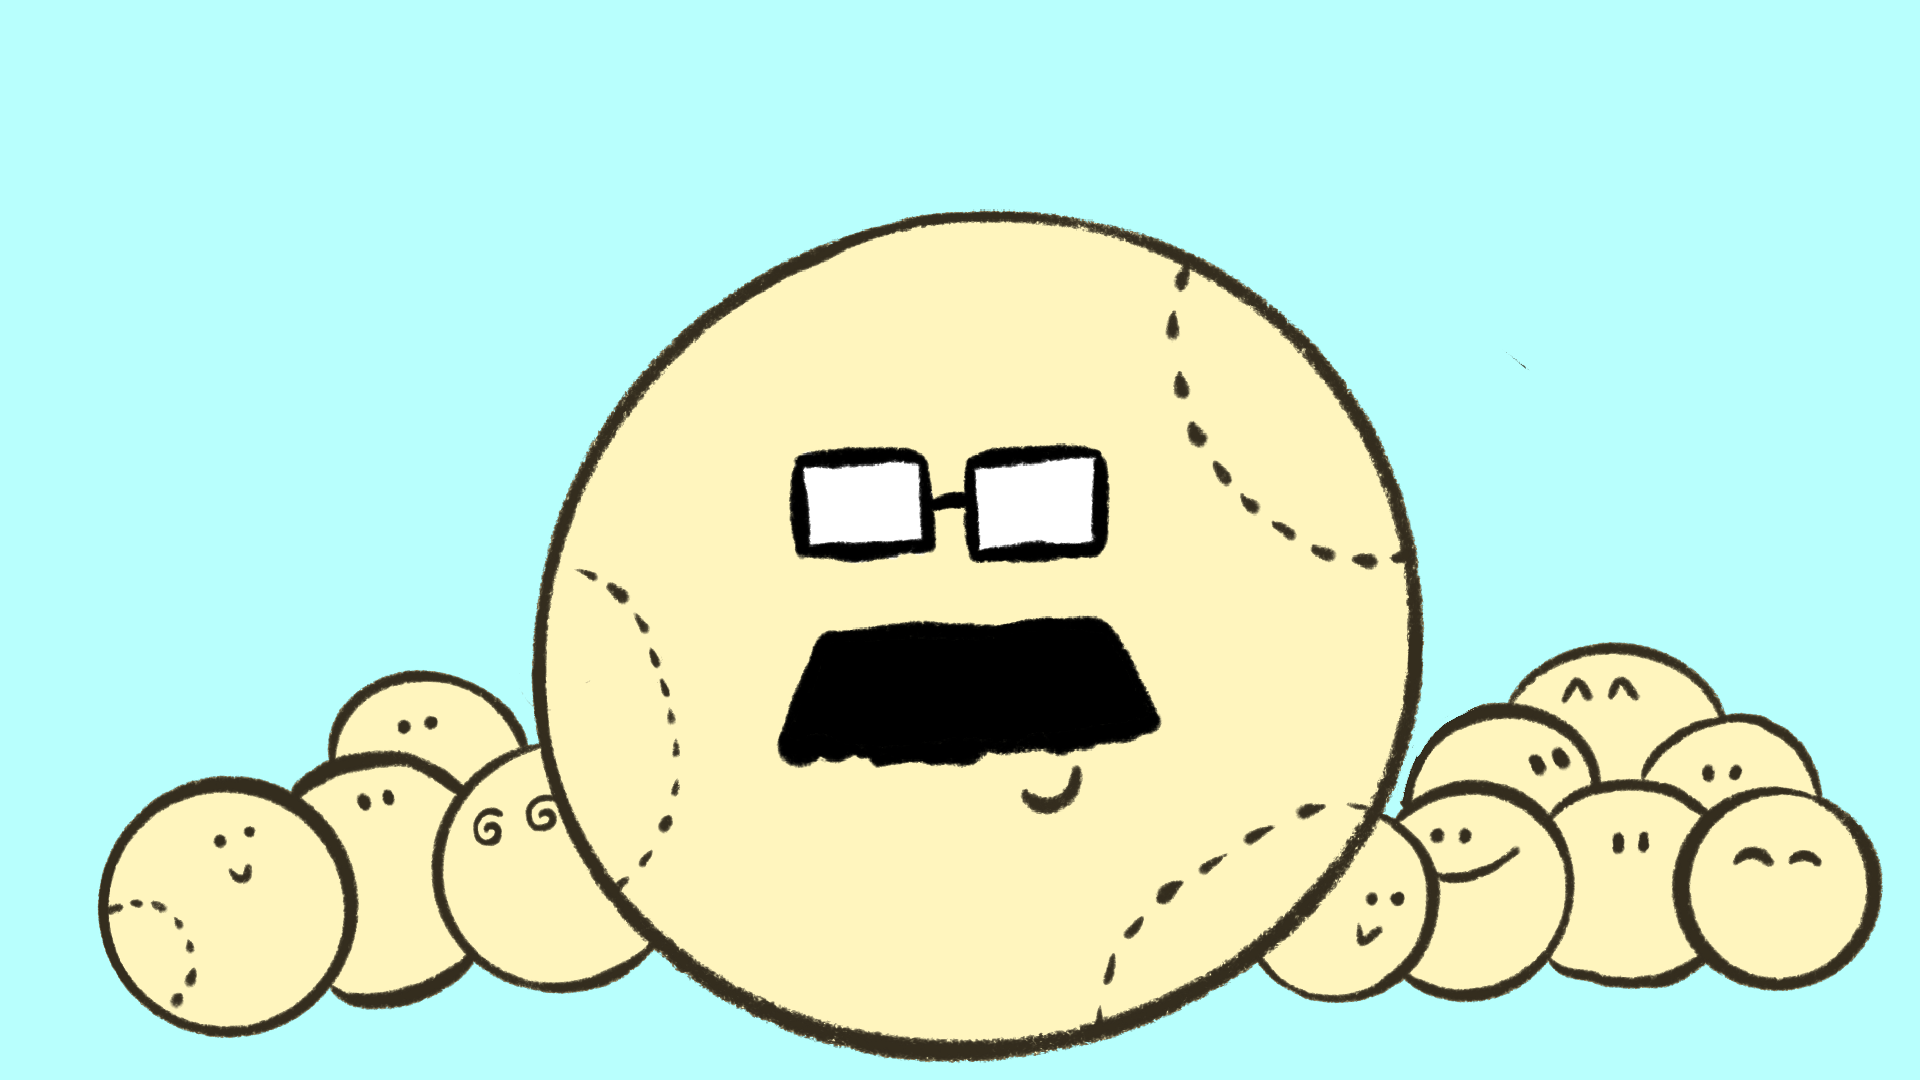
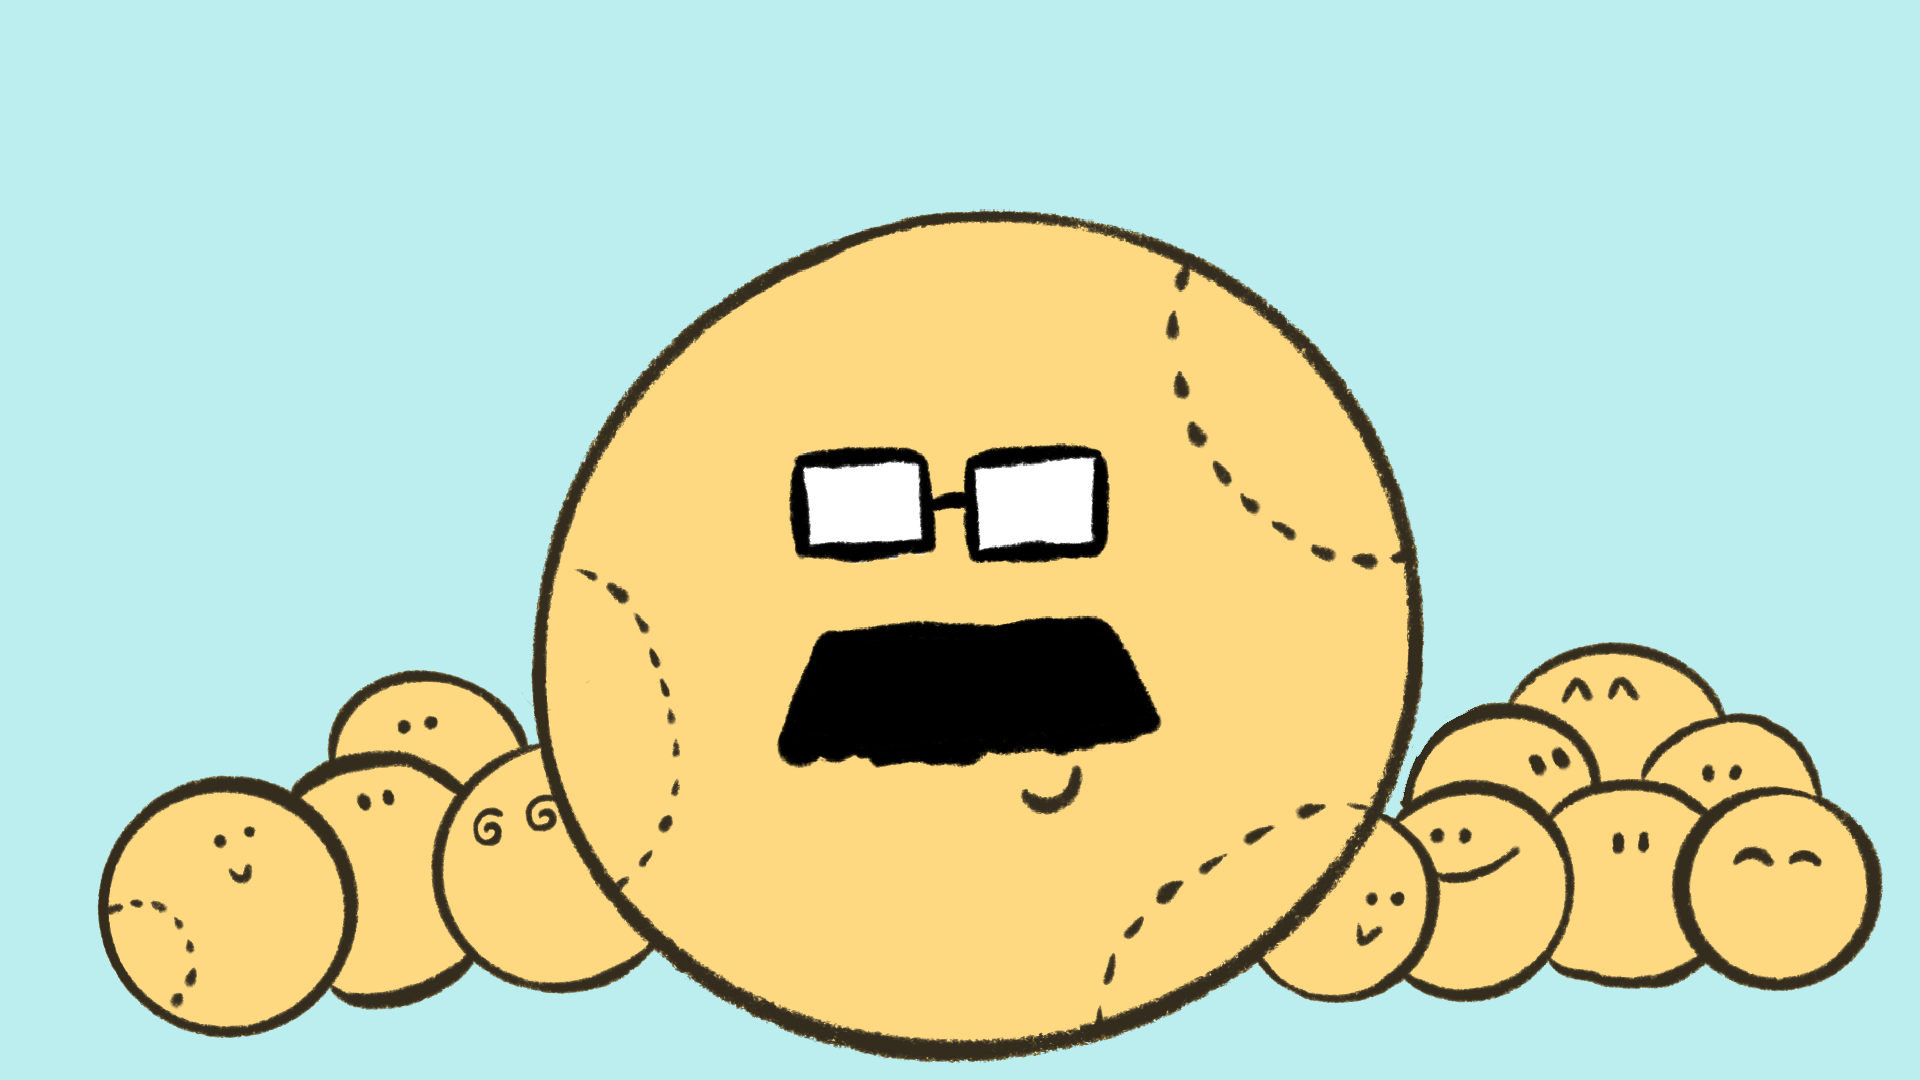
Updated buttons and intro page

diff --git a/source/main.py b/source/main.py
@@ -38,7 +38,7 @@ assets.set_globs(w=WIDTH, h=HEIGHT, m=MOD)
 GRAY = (80, 80, 80)
 RED = (255, 0, 0)
 YELLOW = (255, 255, 0)
-BACKGROUND_BLUE = (144, 226, 222)
+BACKGROUND_BLUE = (188, 238, 240)
 BLACK = (0, 0, 0)
 PHAGO_LIGHT =  (218, 200, 101)
 PHAGO_DARK = (196, 143, 85)
@@ -115,11 +115,9 @@ def intro_screen():
     # Set up intro screen background
     into_bg = pg.image.load(str(DIR_PATH / "images" / "start_screen_basic.png")).convert()
     into_bg = pg.transform.scale(into_bg, (WIDTH, HEIGHT))
-    SCREEN.blit(into_bg, (0, 0))
-
+    
     # Set up title
     title = FONT_1.render(GAMETITLE, True, BLACK)
-    SCREEN.blit(title, mod(40, 21))
 
     pg.display.update()
 
@@ -138,6 +136,9 @@ def intro_screen():
     # Intro page loop
     intro = True
     while intro:
+        SCREEN.blit(into_bg, (0, 0))
+        SCREEN.blit(title, mod(40, 21))
+
         for event in pg.event.get():
             exit_check(event)
 
@@ -184,30 +185,31 @@ def end_screen(score):
             out_file.write("[]")
         end_screen(score)
 
-    play_button = Button(mod(1300), mod(20), mod(425), mod(80), FONT_3, "Play again", callback_=intro_screen)
+    play_button = Button(mod(1300), mod(20), mod(425), mod(120), FONT_3, "Play again", callback_=intro_screen)
 
     # Show final score
     bg = pg.image.load(str(DIR_PATH / "images" / "full_background.png")).convert()
     bg = pg.transform.scale(bg, (WIDTH, HEIGHT))
 
-    SCREEN.blit(bg, (0, 0))
     final_score_text = FONT_3.render(("Final Score: " + str(score)), True, (0, 0, 0))
-    SCREEN.blit(final_score_text, mod(100, 20))
 
     # Sort high scores
     score_list = sorted(score_list, key=lambda x: int(round(float(x["score"]))), reverse=True)
 
-    # Show high scores
-    for i, line in enumerate(score_list[:10]):
-        core_text = FONT_3.render(str(line["score"]), True, (0, 0, 0))
-        diff_text = FONT_3.render(line["difficulty"], True, (0, 0, 0))
-        date_text = FONT_3.render(line["date"], True, (0, 0, 0))
-        SCREEN.blit(core_text, mod(100, 150 + (i * 80)))
-        SCREEN.blit(diff_text, mod(700, 150 + (i * 80)))
-        SCREEN.blit(date_text, mod(1300, 150 + (i * 80)))
-
     # End page loop
     while True:
+        SCREEN.blit(bg, (0, 0))
+        SCREEN.blit(final_score_text, mod(100, 20))
+        
+        # Show high scores
+        for i, line in enumerate(score_list[:10]):
+            core_text = FONT_3.render(str(line["score"]), True, (0, 0, 0))
+            diff_text = FONT_3.render(line["difficulty"], True, (0, 0, 0))
+            date_text = FONT_3.render(line["date"], True, (0, 0, 0))
+            SCREEN.blit(core_text, mod(100, 150 + (i * 80)))
+            SCREEN.blit(diff_text, mod(700, 150 + (i * 80)))
+            SCREEN.blit(date_text, mod(1300, 150 + (i * 80)))
+
         for event in pg.event.get():
             exit_check(event)
 
@@ -362,13 +364,13 @@ def game_loop():
     all_cargo, good_cargo = spawn_cargo()
 
     # Add background
-    intro_bg = pg.image.load(str(DIR_PATH / "images" / "full_background.png")).convert()
-    intro_bg = pg.transform.scale(intro_bg, (WIDTH, HEIGHT))
+    game_bg = pg.image.load(str(DIR_PATH / "images" / "full_background.png")).convert()
+    game_bg = pg.transform.scale(game_bg, (WIDTH, HEIGHT))
 
     # Main game loop
     while running:      
 
-        SCREEN.blit(intro_bg, (0, 0))
+        SCREEN.blit(game_bg, (0, 0))
 
         # Allow for closing
         for event in pg.event.get():
@@ -460,18 +462,28 @@ def game_loop():
             # Draw phagophore
             if phago_locs is not None:
                 if len(phago_locs) > 2:
+                    # Draw outer line
                     last_loc = phago_locs[0]
                     for loc in phago_locs[1:]:
                         pg.draw.circle(SCREEN, PHAGO_LIGHT, (last_loc[0]+0, last_loc[1]+0), mod(31))
-                        aaline(SCREEN, PHAGO_LIGHT, last_loc, loc, mod(60))
-                        # aaline(SCREEN, YELLOW, last_loc, loc, mod(23))                        
+                        aaline(SCREEN, PHAGO_LIGHT, last_loc, loc, mod(60))                   
                         last_loc = loc
-                    
+
+                    #Draw inner line
                     last_loc = phago_locs[0]
                     for loc in phago_locs[1:]:
-                        aaline(SCREEN, PHAGO_DARK, last_loc, loc, mod(23))     
-                        pg.draw.circle(SCREEN, PHAGO_DARK, (last_loc[0]+0, last_loc[1]+0), mod(11))                   
+                        pg.draw.circle(SCREEN, PHAGO_DARK, (last_loc[0]+0, last_loc[1]+0), mod(11))
+                        aaline(SCREEN, PHAGO_DARK, last_loc, loc, mod(23))                     
                         last_loc = loc
+
+                    # Draw Atg8
+                    # last_loc = phago_locs[0]
+                    # for loc in phago_locs[1:]:
+                    #     pg.draw.circle(SCREEN, PHAGO_DARK, (last_loc[0]+0, last_loc[1]+0), mod(11))
+                    #     dx = last_loc[1]
+                    #     dy = 
+                    #     aaline(SCREEN, PHAGO_DARK, last_loc, loc, mod(23))                     
+                    #     last_loc = loc
 
             # Draw PAS
             if start_loc is not None:

diff --git a/source/assets.py b/source/assets.py
@@ -16,6 +16,7 @@ if DIR_PATH.name == "dist":
 
 WHITE = (255, 255, 255)
 BLACK = (0, 0, 0)
+BACKGROUND_BLUE = (188, 238, 240)
 COLOR_ACTIVE = (0, 0, 0)
 COLOR_INACTIVE = (80, 80, 80)
 WIDTH = 0
@@ -301,9 +302,11 @@ class Button:
     
         # Initialize image
         base_up = pg.image.load(str(DIR_PATH / "images" / "button_up.png")).convert()
-        base_down = pg.image.load(str(DIR_PATH / "images" / "button_down.jpg")).convert()
+        base_down = pg.image.load(str(DIR_PATH / "images" / "button_down.png")).convert()
         self.image_up = pg.transform.scale(base_up, (w, h))
         self.image_down = pg.transform.scale(base_down, (w, h))
+        self.image_up.set_colorkey(BLACK)
+        self.image_down.set_colorkey(BLACK)
 
     def handle_event(self, event, glob_diff=None):
         """ Detect button click and respond accordingly. """
@@ -342,9 +345,8 @@ class Button:
 
         image = self.image_down if self.active else self.image_up
         
-        pg.draw.ellipse(screen, self.color, self.rect)
         text_x = self.rect.x + ((self.rect.w - self.txt_surface.get_width()) / 2)
-        text_y =  self.rect.y + ((self.rect.h - self.txt_surface.get_height()) / 2)
+        text_y =  self.rect.y + ((self.rect.h - self.txt_surface.get_height()) / 2) - 5
         screen.blit(image, self.rect)
         screen.blit(self.txt_surface, (text_x, text_y))
         
